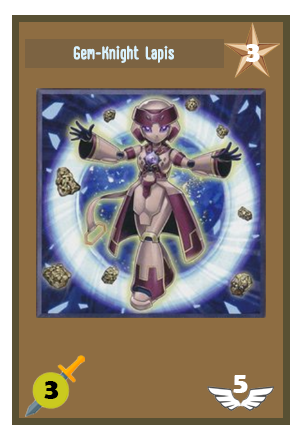
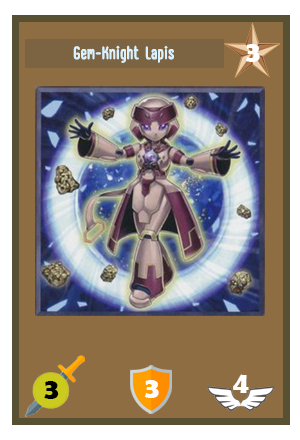
add healing+shielding+isCritical

Changed region(s): [[0.09, 0.1773, 0.9, 0.7386], [0.42, 0.8273, 0.6, 0.9455], [0.78, 0.8273, 0.84, 0.9159]]

diff --git a/src/Controllers/BattlePhaseController.java b/src/Controllers/BattlePhaseController.java
@@ -1,9 +1,6 @@
 package Controllers;
 
-import Classes.Card;
-import Classes.FireTribe;
-import Classes.Player;
-import Classes.WaterTribe;
+import Classes.*;
 import javafx.event.ActionEvent;
 import javafx.fxml.FXML;
 import javafx.fxml.FXMLLoader;
@@ -190,6 +187,7 @@ public class BattlePhaseController implements Initializable {
     public void endTurn() {
         this.resetVisibility();
         this.isAttack = false;
+        this.isSkill = false;
         if(!this.checkIfFinish()){
             this.indexOfCard += 1;
             if(this.indexOfCard > this.cardsOnArena.size() - 1){
@@ -358,7 +356,16 @@ public class BattlePhaseController implements Initializable {
         //check if this attack button is hit, if the card turn is on playerOne arena
         if(this.isAttack && this.cardThisTurn.getSelectedBy().getName().equals(this.playerOne.getName())){
             if(imgId.startsWith("imgP2") && selectedCard != null){
-                selectedCard.takeDmg(this.cardThisTurn.getDamage());
+                if(cardThisTurn.getTribe().equals("fire")){
+                    FireTribe card = (FireTribe)cardThisTurn;
+                    if(card.isCritical()){
+                        System.out.println("CRITICALLLL !!! !! !");
+                        selectedCard.takeDmg(this.cardThisTurn.getDamage() * 2);
+                    }
+                    else {
+                        selectedCard.takeDmg(this.cardThisTurn.getDamage());
+                    }
+                }
                 if(selectedCard.getIsDead()){
                     System.out.println("DEAD");
                     this.playerTwo.getSelectedCard().remove(selectedCard);
@@ -371,7 +378,16 @@ public class BattlePhaseController implements Initializable {
         }
         else if(this.isAttack && this.cardThisTurn.getSelectedBy().getName().equals(this.playerTwo.getName())){
             if(imgId.startsWith("imgP1") && selectedCard != null){
-                selectedCard.takeDmg(this.cardThisTurn.getDamage());
+                if(cardThisTurn.getTribe().equals("fire")){
+                    FireTribe card = (FireTribe)cardThisTurn;
+                    if(card.isCritical()){
+                        System.out.println("CRITICALLLL !!! !! !");
+                        selectedCard.takeDmg(this.cardThisTurn.getDamage() * 2);
+                    }
+                    else {
+                        selectedCard.takeDmg(this.cardThisTurn.getDamage());
+                    }
+                }
                 if(selectedCard.getIsDead()){
                     System.out.println("DEAD");
                     this.playerOne.getSelectedCard().remove(selectedCard);
@@ -383,7 +399,32 @@ public class BattlePhaseController implements Initializable {
             }
         }
         else if(this.isSkill && this.cardThisTurn.getSelectedBy().getName().equals(this.playerOne.getName())){
-
+            if(imgId.startsWith("imgP1") && selectedCard != null){
+                if(this.cardThisTurn.getTribe().equals("water")){
+                    WaterTribe card = (WaterTribe)cardThisTurn;
+                    selectedCard.healing(card.getHeal());
+                }
+                else if(this.cardThisTurn.getTribe().equals("rock")){
+                    RockTribe card = (RockTribe)cardThisTurn;
+                    selectedCard.shielding(card.getShield());
+                }
+                this.renderCardsHp();
+                this.endTurn();
+            }
+        }
+        else if(this.isSkill && this.cardThisTurn.getSelectedBy().getName().equals(this.playerTwo.getName())){
+            if(imgId.startsWith("imgP2") && selectedCard != null){
+                if(this.cardThisTurn.getTribe().equals("water")){
+                    WaterTribe card = (WaterTribe)cardThisTurn;
+                    selectedCard.healing(card.getHeal());
+                }
+                else if(this.cardThisTurn.getTribe().equals("rock")){
+                    RockTribe card = (RockTribe)cardThisTurn;
+                    selectedCard.shielding(card.getShield());
+                }
+                this.renderCardsHp();
+                this.endTurn();
+            }
         }
     }
     public void onAttack(ActionEvent e) {
@@ -411,7 +452,7 @@ public class BattlePhaseController implements Initializable {
         //Skill Actions
         Button thisButton = (Button)e.getSource();
         String btnId = thisButton.getId();
-        if(!this.isAttack){
+        if(!this.isAttack && !cardThisTurn.getTribe().equals("fire")){
             System.out.println("SKILL MODE");
             this.isSkill = true;
             if(btnId.startsWith("skillBtnP1") && ( this.cardThisTurn.getTribe().equals("water") || this.cardThisTurn.getTribe().equals("rock") )){

diff --git a/src/Classes/Card.java b/src/Classes/Card.java
@@ -128,6 +128,17 @@ public class Card {
         this.hp = this.maxHp;
         this.isDead = false;
     }
+    public void healing(int amount) {
+        if(this.hp + amount > this.maxHp){
+            this.hp = this.maxHp;
+        }
+        else{
+            this.hp += amount;
+        }
+    }
+    public void shielding(int amount) {
+        this.hp += amount;
+    }
 
     @Override
     public boolean equals(Object o) {
